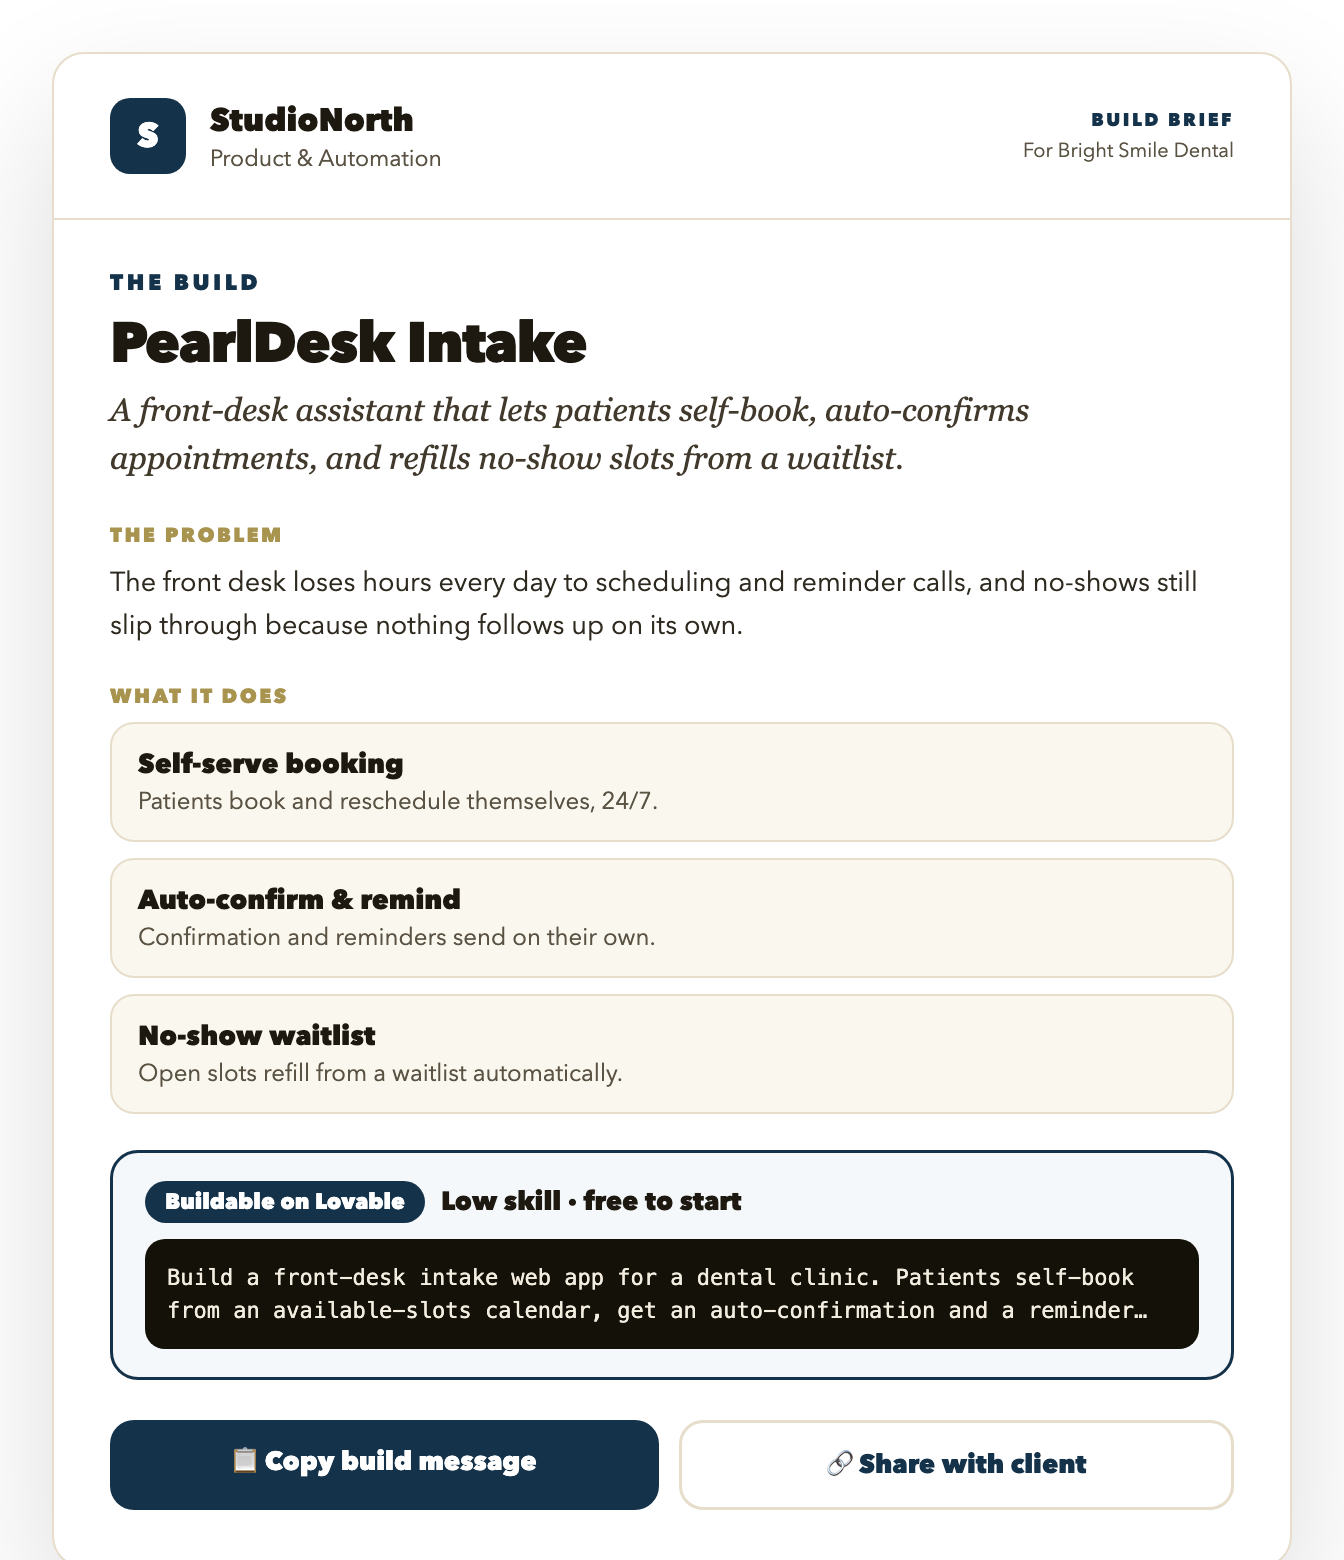
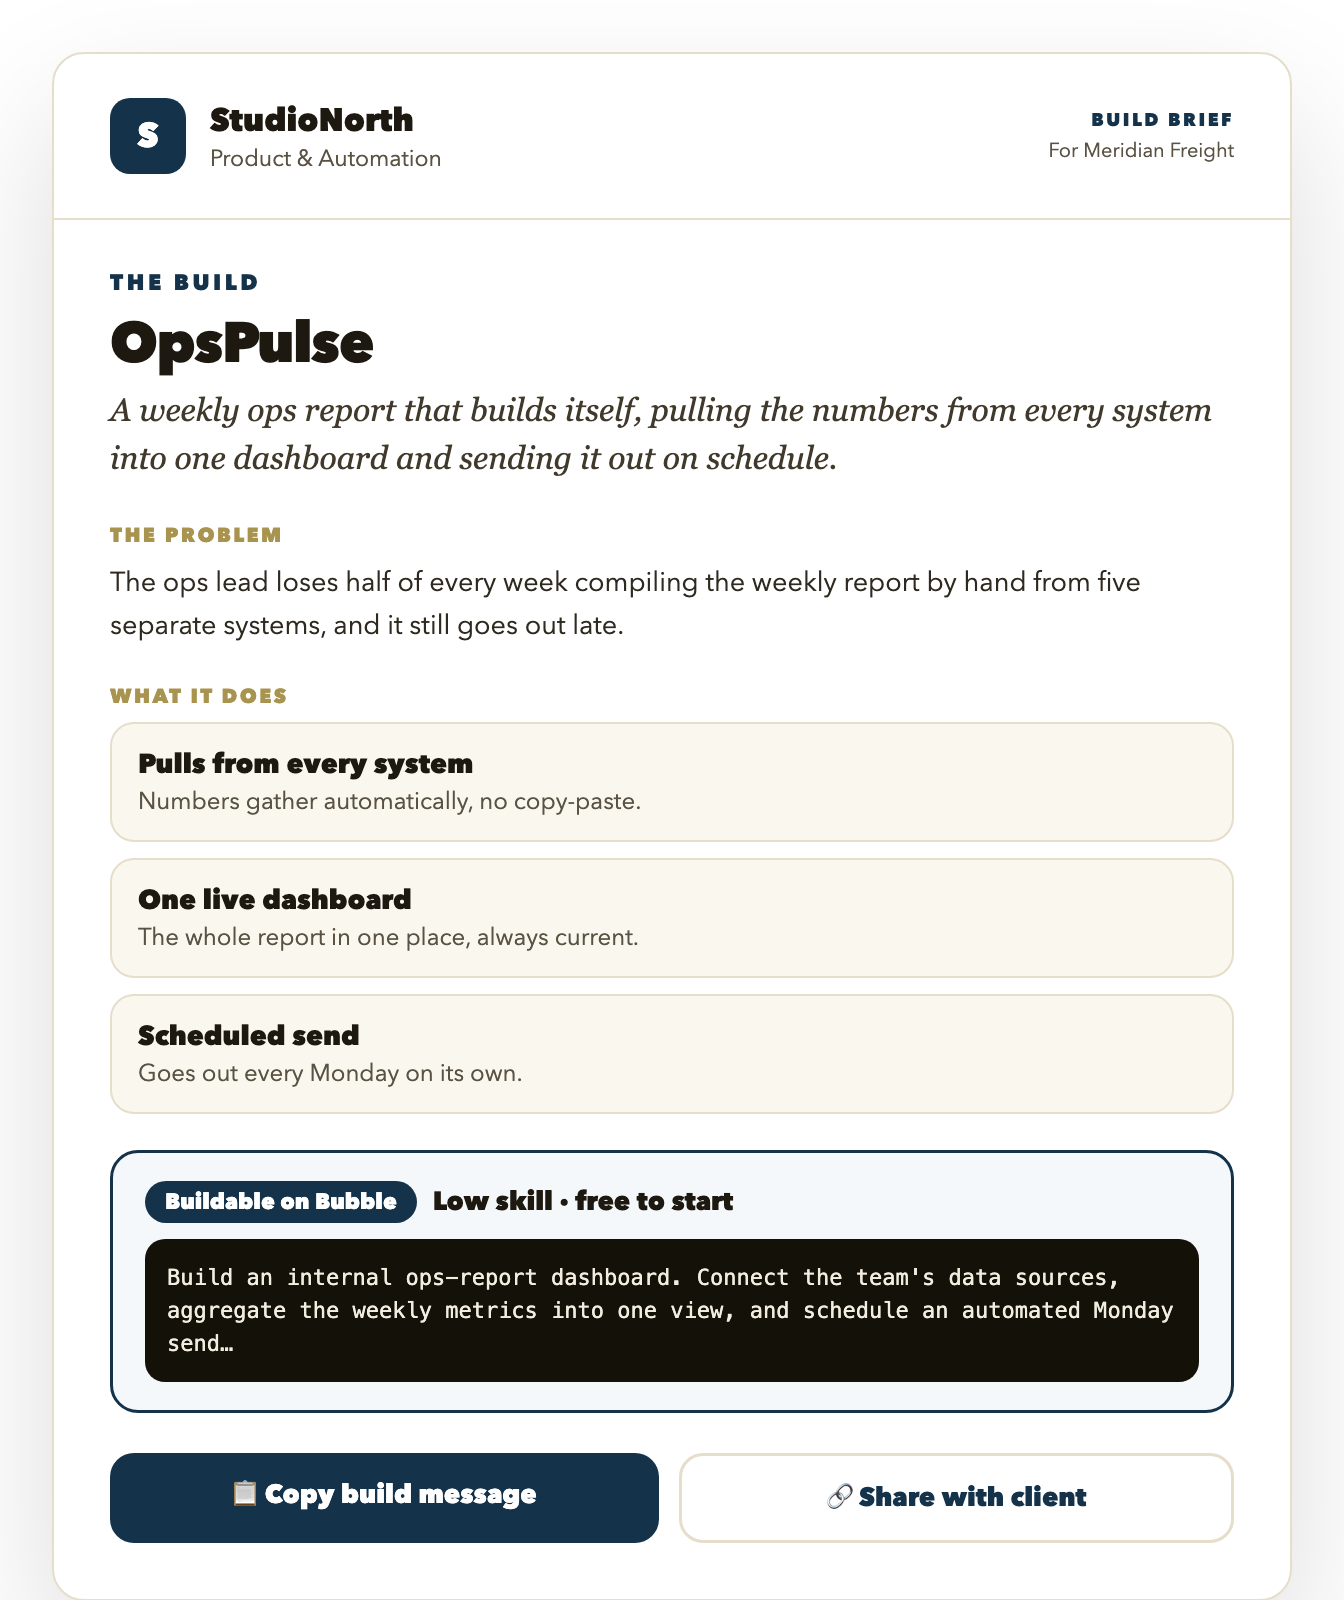
consultants: re-render mockups around the internal-workflow example (OpsPulse)
Extra precision for the transformation-consultant buyer: the on-page real
screens + example brief now show an internal-workflow build (an ops lead's
manual weekly report -> "OpsPulse", an auto-building internal dashboard on
Bubble, for a client company) instead of a customer-facing dental booking app.
Matches the same canonical example now used in the cold-email sequence + pitch
deck. Hero-visual mock aligned too.

diff --git a/src/pages/Consultants.tsx b/src/pages/Consultants.tsx
@@ -140,8 +140,8 @@ export default function Consultants() {
                 <Sparkles className="w-4 h-4 text-henway-yellow" /> Your Agency recommends
               </div>
               <div className="border border-black/10 bg-black/5 rounded-2xl p-4 mb-4">
-                <p className="text-sm font-bold text-black mb-1">A branded client booking portal</p>
-                <p className="text-xs text-henway-charcoal/60">Build it on Lovable · one-page brief + copy-paste message ready.</p>
+                <p className="text-sm font-bold text-black mb-1">OpsPulse, a weekly report that builds itself</p>
+                <p className="text-xs text-henway-charcoal/60">Build it on Bubble · one-page brief + copy-paste message ready.</p>
               </div>
               <button className="w-full bg-black text-white text-sm font-bold py-3 rounded-xl">Book a call with Your Agency</button>
             </div>
